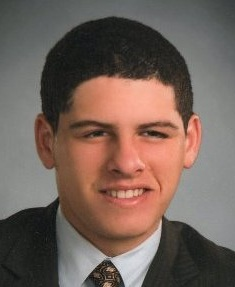
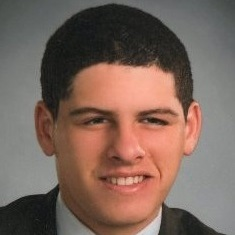
board update

diff --git a/index.html b/index.html
@@ -26,7 +26,7 @@
   <body>
     <!-- Navigation
     ==========================================-->
-    <nav id="tf-menu" class="navbar navbar-default navbar-fixed-top">
+    <nav id="tf-menu" class="navbar navbar-default navbar-fixed-top" style="height:50px">
       <div class="container">
         <!-- Brand and toggle get grouped for better mobile display -->
         <div class="navbar-header">
@@ -45,11 +45,12 @@
           <ul class="nav navbar-nav navbar-right">
             <li><a href="#tf-home" class="page-scroll">Home</a></li>
             <li><a href="#tf-about" class="page-scroll">About</a></li>
-            <li><a href="#board" class="page-scroll">Board</a></li>
+            <li><a href="#board" class="page-scroll" onclick="history.pushState(null, null, pagename)">Board</a></li>
             <li><a href="#recruitment" class="page-scroll">Recruitment</a></li>
             <li><a href="#alumni" class="page-scroll">Alumni</a></li>
             <li><a href="#faq" class="page-scroll">FAQ</a></li>
             <li><a href="#contact" class="page-scroll">Contact</a></li>
+			<li><a target="_blank" class = "page-scroll" href="http://ignite.lehigh.edu/AEPi">Donate <img src="img/external_link.png" alt="" style="height:12px" /><a></li>
           </ul>
         </div><!-- /.navbar-collapse -->
       </div><!-- /.container-fluid -->
@@ -61,7 +62,7 @@
         <div class="overlay">
             <div class="content">
                 <h1><strong><span class="color">Alpha Epsilon Pi </span></strong>Sigma Eta</h1>
-                <p class="lead">Welcome to Lehigh University's <strong> only </strong>Jewish fraternity, located in Bethlehem PA.</p>
+                <p class="lead">Welcome to Lehigh University's <i> only </i>Jewish fraternity, located in Bethlehem PA.</p>
                 <a href="#tf-about" class="fa fa-angle-down page-scroll"></a>
             </div>
         </div>
@@ -121,9 +122,9 @@
                 <div id="team" class="owl-carousel owl-theme row">
                     <div class="item">
                         <div class="thumbnail">
-                            <img src="img/board/shane.jpg" alt="..." class="img-circle team-img">
+                            <img src="img/board/ivis.jpg" alt="..." class="img-circle team-img">
                             <div class="caption">
-                                <h3>Shane Wolfe</h3>
+                                <h3>Ian Davis</h3>
                                 <p>Master</p>
                             </div>
                         </div>
@@ -131,9 +132,9 @@
 
                     <div class="item">
                         <div class="thumbnail">
-                            <img src="img/board/roger.jpg" alt="..." class="img-circle team-img">
+                            <img src="img/board/kawa.jpg" alt="..." class="img-circle team-img">
                             <div class="caption">
-                                <h3>Roger Blumin</h3>
+                                <h3>Matt Kawa</h3>
                                 <p>Lt. Master</p>
                             </div>
                         </div>
@@ -141,9 +142,9 @@
 
                     <div class="item">
                         <div class="thumbnail">
-                            <img src="img/board/brian.jpg" alt="..." class="img-circle team-img">
+                            <img src="img/board/conch.jpg" alt="..." class="img-circle team-img">
                             <div class="caption">
-                                <h3>Brian Reiff</h3>
+                                <h3>Ethan Whitney</h3>
                                 <p>Scribe</p>
                             </div>
                         </div>
@@ -151,70 +152,10 @@
 
                     <div class="item">
                         <div class="thumbnail">
-                            <img src="img/board/allon.jpg" alt="..." class="img-circle team-img">
+                            <img src="img/board/roman.jpg" alt="..." class="img-circle team-img">
                             <div class="caption">
-                                <h3>Allon Vitenson</h3>
+                                <h3>Roman Brown</h3>
                                 <p>Exchequer</p>
-                            </div>
-                        </div>
-                    </div>
-
-                    <div class="item">
-                        <div class="thumbnail">
-                            <img src="img/board/pat.jpg" alt="..." class="img-circle team-img">
-                            <div class="caption">
-                                <h3>Patrick Dec</h3>
-                                <p>Pledgemaster</p>
-                            </div>
-                        </div>
-                    </div>
-
-                    <div class="item">
-                        <div class="thumbnail">
-                            <img src="img/board/matt.jpg" alt="..." class="img-circle team-img">
-                            <div class="caption">
-                                <h3>Matt Deninger</h3>
-                                <p>Brother at Large</p>
-                            </div>
-                        </div>
-                    </div>
-
-                    <div class="item">
-                        <div class="thumbnail">
-                            <img src="img/board/drew.jpg" alt="..." class="img-circle team-img">
-                            <div class="caption">
-                                <h3>Drew Berger</h3>
-                                <p>Recruitment</p>
-                            </div>
-                        </div>
-                    </div>
-
-                    <div class="item">
-                        <div class="thumbnail">
-                            <img src="img/board/kieran.jpg" alt="..." class="img-circle team-img">
-                            <div class="caption">
-                                <h3>Kieran Hall</h3>
-                                <p>Social</p>
-                            </div>
-                        </div>
-                    </div>
-
-                    <div class="item">
-                        <div class="thumbnail">
-                            <img src="img/board/dean.jpg" alt="..." class="img-circle team-img">
-                            <div class="caption">
-                                <h3>Dean J. Kroker</h3>
-                                <p>Jewish Leadership</p>
-                            </div>
-                        </div>
-                    </div>
-
-                    <div class="item">
-                        <div class="thumbnail">
-                            <img src="img/board/samw.jpg" alt="..." class="img-circle team-img">
-                            <div class="caption">
-                                <h3>Sam Waldorf</h3>
-                                <p>Civics</p>
                             </div>
                         </div>
                     </div>
@@ -224,16 +165,80 @@
                             <img src="img/board/sam.jpg" alt="..." class="img-circle team-img">
                             <div class="caption">
                                 <h3>Sam Cassell</h3>
+                                <p>Pledgemaster</p>
+                            </div>
+                        </div>
+                    </div>
+
+                    <div class="item">
+                        <div class="thumbnail">
+                            <img src="img/board/benmiller.jpg" alt="..." class="img-circle team-img">
+                            <div class="caption">
+                                <h3>Ben Miller</h3>
+                                <p>Brother at Large</p>
+                            </div>
+                        </div>
+                    </div>
+
+                    <div class="item">
+                        <div class="thumbnail">
+                            <img src="img/board/tracy.jpg" alt="..." class="img-circle team-img">
+                            <div class="caption">
+                                <h3>Matt Tracy</h3>
+                                <p>Recruitment</p>
+                            </div>
+                        </div>
+                    </div>
+
+                    <div class="item">
+                        <div class="thumbnail">
+                            <img src="img/board/austin.jpg" alt="..." class="img-circle team-img">
+                            <div class="caption">
+                                <h3>Austin Carkhuff</h3>
+                                <p>Social</p>
+                            </div>
+                        </div>
+                    </div>
+
+                    <div class="item">
+                        <div class="thumbnail">
+                            <img src="img/board/stephen.jpg" alt="..." class="img-circle team-img">
+                            <div class="caption">
+                                <h3>Stephen Greenwald</h3>
+                                <p>Jewish Leadership</p>
+                            </div>
+                        </div>
+                    </div>
+
+                    <div class="item">
+                        <div class="thumbnail">
+                            <img src="img/board/aaron.jpg" alt="..." class="img-circle team-img">
+                            <div class="caption">
+                                <h3>Aaron Gray</h3>
+                                <p>Civics</p>
+                            </div>
+                        </div>
+                    </div>
+
+                    <div class="item">
+                        <div class="thumbnail">
+                            <img src="img/board/lav.jpg" alt="..." class="img-circle team-img">
+                            <div class="caption">
+                                <h3>Andrew Lavender</h3>
                                 <p>Philanthropy</p>
                             </div>
                         </div>
                     </div>
                     <div class="item">
                         <div class="thumbnail">
+							<img src="img/board/matt.jpg" alt="..." class="img-circle team-img">
                             <div class="caption">
+								<h3>Matt Deninger</h3>
+                                <p>Sentinel</p>
                             </div>
                         </div>
                     </div>
+
                 </div>
                 
             </div>
@@ -273,7 +278,7 @@
                 </div>
 
                 <div class="col-md-3 col-sm-6 service">
-                    <i class="fa"><img src="img/jewish.png" height="40px"></img></i>
+                    <i class="fa"><img src="img/jewish.png" style="width:100%; float:left;"></img></i> <!-- ALSO HAD hieght:100%, CHANGED FOR MOBILE -->
                     <h4><strong>Jewish Growth</strong></h4>
                     <p>"It's amazing how, after just a few short months in AEPi, I was able to truly lean on my brothers in a time of need. I feel an immense connection to them, and to Judaism."</p>
                 </div>
@@ -288,35 +293,51 @@
             <div class="container">
 
                 <div class="section-title center">
-                    <h2>We <strong>work</strong></h2>
+                    <h2>Where we <strong>work</strong></h2>
                     <div class="line">
                         <hr>
                     </div>
                 </div>
                 <div id="clients" class="owl-carousel owl-theme">
                     <div class="item">
-                        <img src="img/work/01.png">
+						<a target="_blank" href="http://www.apple.com"> 
+							<img src="img/work/01.png">
+						</a>
+					</div>
+                    <div class="item">
+						<a target="_blank" href="http://www.nasa.gov"> 
+							<img src="img/work/02.png">
+						</a>
                     </div>
                     <div class="item">
-                        <img src="img/work/02.png">
+						<a target="_blank" href="http://www.pwc.com"> 
+							<img src="img/work/03.png">
+						</a>
                     </div>
                     <div class="item">
-                        <img src="img/work/03.png">
+						<a target="_blank" href="http://www.menshealth.com"> 
+							<img src="img/work/04.png">
+						</a>
                     </div>
                     <div class="item">
-                        <img src="img/work/04.png">
+						<a target="_blank" href="http://www.lutron.com"> 
+							<img src="img/work/05.png">
+						</a>
                     </div>
                     <div class="item">
-                        <img src="img/work/05.png">
+						<a target="_blank" href="http://www.ibm.com"> 
+							<img src="img/work/06.png">
+						</a>
                     </div>
                     <div class="item">
-                        <img src="img/work/06.png">
+						<a target="_blank" href="http://www.jpmorgan.com"> 
+							<img src="img/work/07.png">
+						</a>
                     </div>
                     <div class="item">
-                        <img src="img/work/07.png">
-                    </div>
-                    <div class="item">
-                        <img src="img/work/08.png">
+						<a target="_blank" href="http://www.ey.com"> 
+							<img src="img/work/08.png">
+						</a>
                     </div>
                 </div>
 
@@ -332,14 +353,23 @@
                     <hr>
                 </div>
                 <div class="clearfix"></div>
-                <h3><em>We recognize and appreciate that having a strong, active alumni 
+                <h3><em>
+				We recognize and appreciate that having a strong, active alumni 
                 base is a principal goal for the chapter.  With nearly 300 alumni, we have 
                 several avenues by which alumni can stay involved.  We are thrilled to have 
                 such active alumni, involved in Lehigh's Asa Packer Society, Tower Society, 
-                Jewish Student Advisory Council, and more. <br> <br> <a href="alum.html"> Access Alumni Portal <a class="fa fa-sign-in"> </a></a></em></h3>
+                Jewish Student Advisory Council, and more. 
+				<br> <br> 
+				<!-- COMMENTED OUT UNTIL ALUMNI PORTAL CREATED
+				<a href="alum.html"> Access Alumni Portal <a class="fa fa-sign-in"> </a></a>
+				-->
+				<a href="newsletter.pdf"> Read Our Most Recent Newsletter </a>
+				</em></h3>
             </div>
             <div class="space"></div>
 
+			<!-- TEMPORARILY COMMENTED OUT BROKEN PARTS OF ALUMNI SECTION
+				SERIOUS REDESIGN NEEDED
             <div id="lightbox" class="row">
 
                 <div class="col-sm-6 col-md-3 col-lg-3 branding">
@@ -361,7 +391,7 @@
                                 <span class="fa fa-dot-circle-o"></span>
                                 <a href="#board" class="page-scroll">
                                     <strong>Past Newsletters</strong>
-                                </a> - <em>found below.</em>
+                                </a> - <em>found to the right.</em>
                             </li>
                 </ul>
                     </div>
@@ -408,8 +438,8 @@
                     <div class="portfolio-item">
                             <a href="#contact" class="page-scroll">
                                     <h4>Get in Contact</h4>
-                                    <small>Send us an old newsletter, provide us feedback, or ask any question you'd like.</small>
-                                    <div class="clearfix"></div>
+                                    <p style = "color:#5a5a5a; font-style:italic;">Send us an old newsletter, provide us feedback, or ask any question you'd like.</p>
+									<div class="clearfix"></div>
                                     <i class="fa fa-envelope"></i>
                             </a>
                     </div>
@@ -418,6 +448,7 @@
                 
 
             </div>
+			-->
         </div>
     </div>
 
@@ -499,7 +530,7 @@
                 </div>
 
                 <div class="col-lg-4 text-center">
-                    <p><a href="https://www.paypal.com/cgi-bin/webscr?cmd=_s-xclick&hosted_button_id=BNFMDTJ3VMGMY"><i class="fa fa-paypal fa-3x wow bounceIn" data-wow-delay=".1s"></i> <br>Give to ΑΕΠ-ΣΗ</a></p>
+                    <p><a target="_blank" href="http://ignite.lehigh.edu/AEPi"><i class="fa fa-paypal fa-3x wow bounceIn" data-wow-delay=".1s"></i> <br>Give to ΑΕΠ-ΣΗ</a></p>
                 </div>
             </div>
                 </div>
@@ -514,10 +545,10 @@
             </div>
             <div class="pull-right fnav">
                 <ul class="footer-social">
-                    <li><a href="http://facebook.com/lehighaepi"><i class="fa fa-facebook"></i></a></li>
-                    <li><a href="https://www.linkedin.com/grp/home?gid=8297167"><i class="fa fa-linkedin"></i></a></li>
-                    <li><a href="https://www.paypal.com/cgi-bin/webscr?cmd=_s-xclick&hosted_button_id=BNFMDTJ3VMGMY"><i class="fa fa-money"></i></a></li>
-                    <li><a href="mailto:info@sigmaetaaepi.com"><i class="fa fa-envelope"></i></a></li>
+                    <li><a href="http://facebook.com/lehighaepi"><i style="width:35px; height:35px;" class="fa fa-facebook"></i></a></li>
+                    <li><a href="https://www.linkedin.com/grp/home?gid=8297167"><i style="width:35px; height:35px;" class="fa fa-linkedin"></i></a></li>
+                    <li><a href="mailto:info@sigmaetaaepi.com"><i style="width:35px; height:35px;" class="fa fa-envelope"></i></a></li>
+                    <li><a target="_blank" href="http://ignite.lehigh.edu/AEPi"><i style="width:35px; height:35px;" class="fa fa-money"></i></a></li>
                 </ul>
             </div>
         </div>
